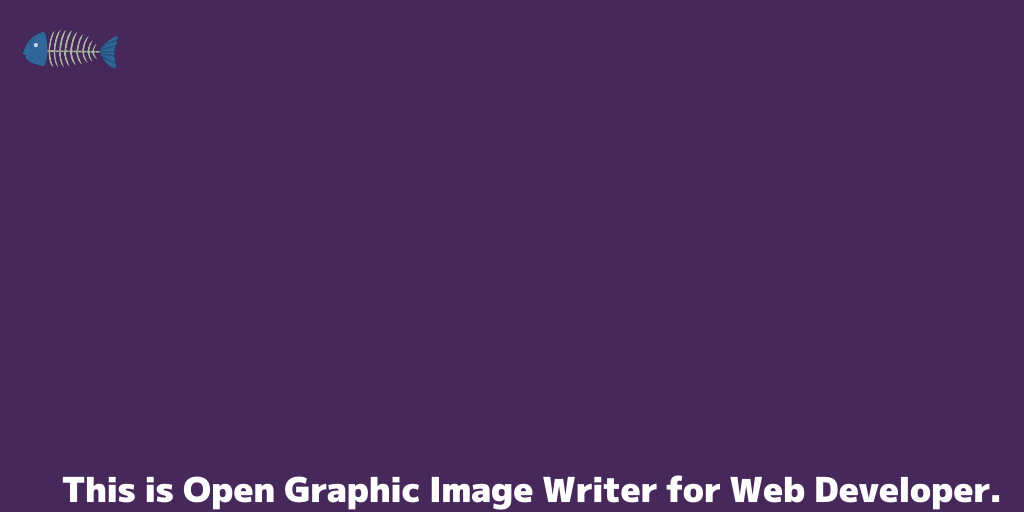
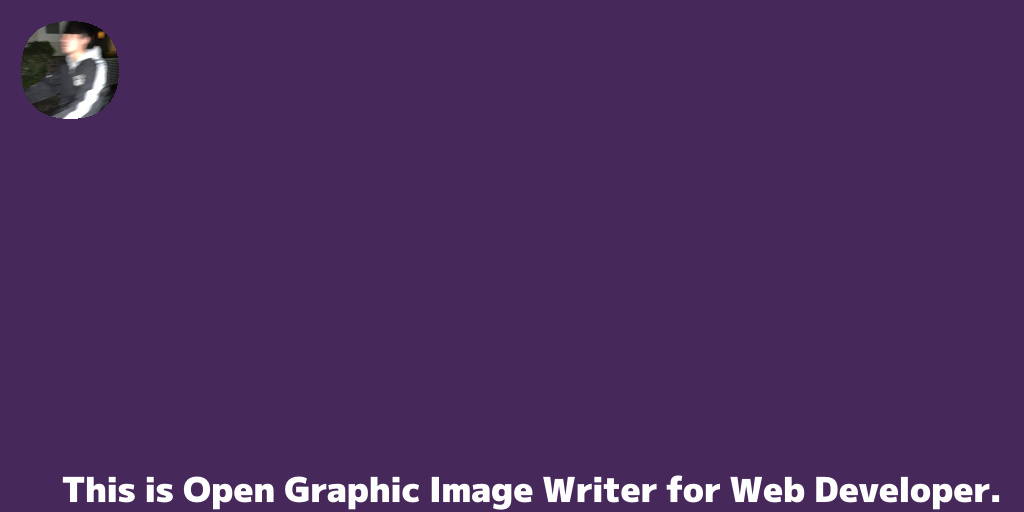
example: fix example for absolue to use border-radius

Changed region(s): [[0.0, 0.0312, 0.125, 0.25]]

diff --git a/examples/absolute.rs b/examples/absolute.rs
@@ -14,7 +14,7 @@ fn main() -> io::Result<()> {
     });
 
     writer.set_img(
-        "./examples/assets/food_sakana_hone.png",
+        "./examples/assets/thumbnail_circle.png",
         100,
         100,
         style::Style {
@@ -23,6 +23,7 @@ fn main() -> io::Result<()> {
             text_align: style::TextAlign::End,
             top: Some(20),
             left: Some(0),
+            border_radius: style::BorderRadius(50, 50, 50, 50),
             ..style::Style::default()
         },
     );
